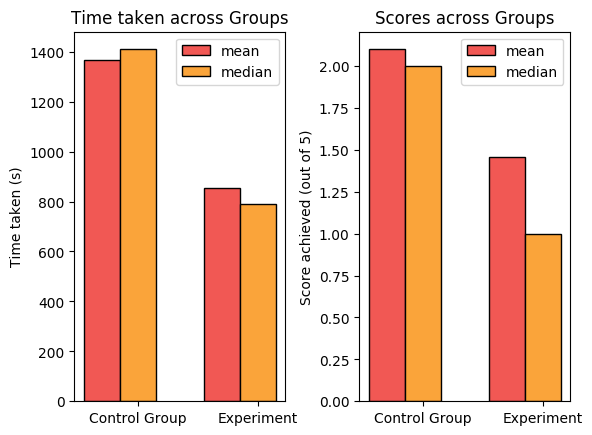
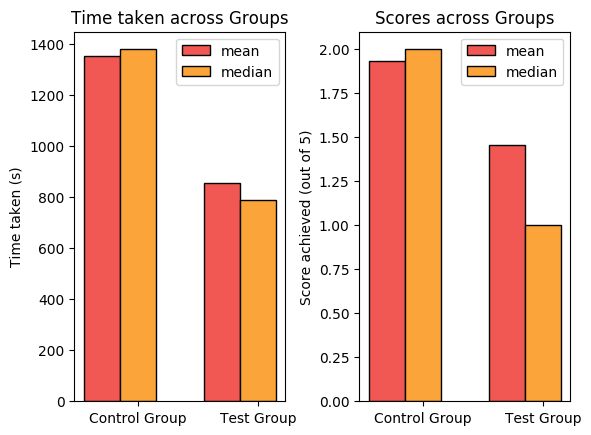
Add extra 5 samples, rename experiment->test

diff --git a/analysis.py b/analysis.py
@@ -1,5 +1,7 @@
 control_group_time = [1148,1084,1480,1474,1462,1455,1435,1385,1380,1363]
+control_group_time += [1280, 1250, 1370, 1440, 1320]
 control_group_score = [3,4,1,1,0,5,2,1,2,2]
+control_group_score += [2, 1, 1, 2, 2]
 
 experiment_group_time = [600,790,1020,713,770,1279,668,932,1102,806,735]
 experiment_group_score = [1,4,0,2,2,2,1,1,1,0,2]
@@ -35,7 +37,7 @@ def descriptive_stats():
     r2 = [x + bar_width for x in r1]
     plt.bar(r1, bars1, width = bar_width, color = '#F15854', edgecolor = 'black', capsize=7, label='mean')
     plt.bar(r2, bars2, width = bar_width, color = '#FAA43A', edgecolor = 'black', capsize=7, label='median')
-    plt.xticks([r + bar_width for r in range(len(bars1))], ['Control Group', 'Experiment'])
+    plt.xticks([r + bar_width for r in range(len(bars1))], ['Control Group', 'Test Group'])
     plt.ylabel('Time taken (s)')
     plt.legend()
 
@@ -47,7 +49,7 @@ def descriptive_stats():
     r2 = [x + bar_width for x in r1]
     plt.bar(r1, bars1, width = bar_width, color = '#F15854', edgecolor = 'black', capsize=7, label='mean')
     plt.bar(r2, bars2, width = bar_width, color = '#FAA43A', edgecolor = 'black', capsize=7, label='median')
-    plt.xticks([r + bar_width for r in range(len(bars1))], ['Control Group', 'Experiment'])
+    plt.xticks([r + bar_width for r in range(len(bars1))], ['Control Group', 'Test Group'])
     plt.ylabel('Score achieved (out of 5)')
     plt.legend()
 
@@ -85,7 +87,7 @@ def check_normal_distribution():
         left=False,         # ticks along the left edge are off
         labelleft=False,    # labels along the left edge are off
         labelbottom=False)  # labels along the bottom edge are off
-    plt.title("Experiment Group Times")
+    plt.title("Test Group Times")
     sns.distplot(experiment_group_time)
     plt.subplot(224)
     plt.tick_params(
@@ -95,7 +97,7 @@ def check_normal_distribution():
         left=False,         # ticks along the left edge are off
         labelleft=False,    # labels along the left edge are off
         labelbottom=False)  # labels along the bottom edge are off
-    plt.title("Experiment Group Scores")
+    plt.title("Test Group Scores")
     sns.distplot(experiment_group_score, bins=5)
     plt.subplots_adjust(hspace=0.35)
 
